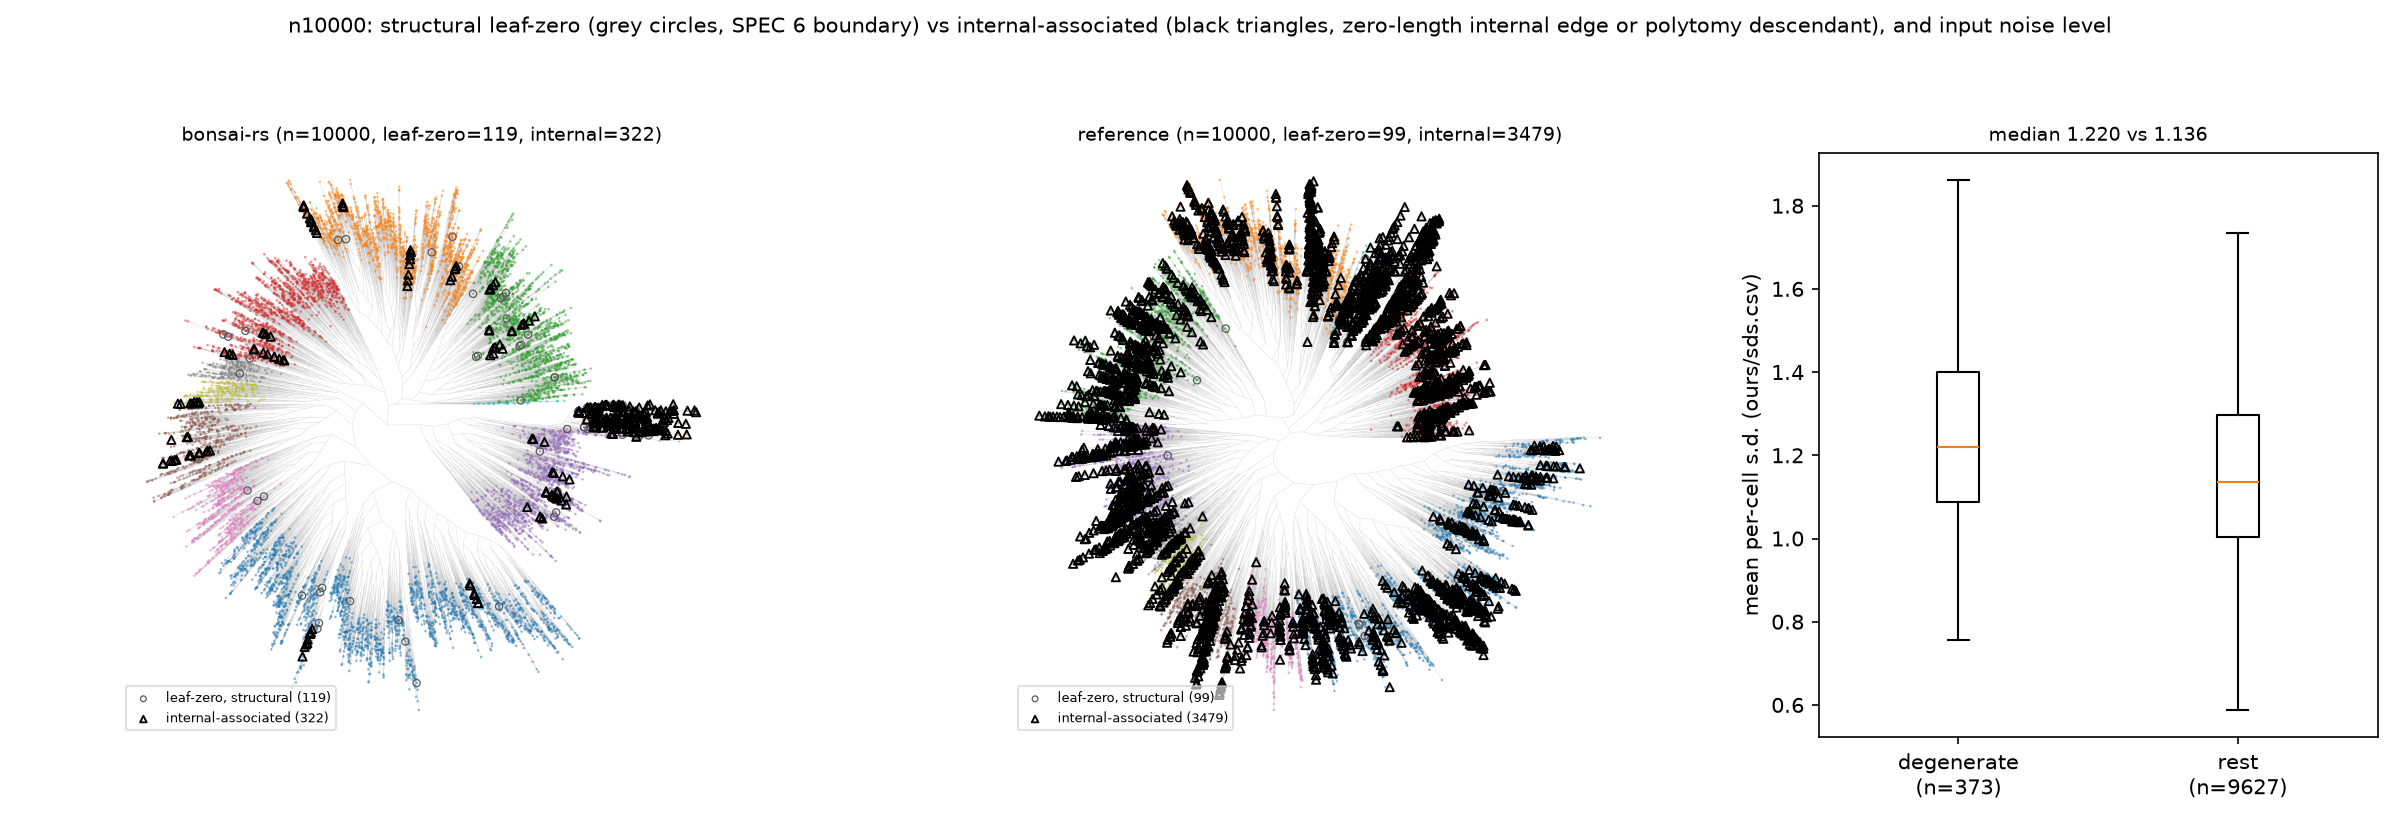
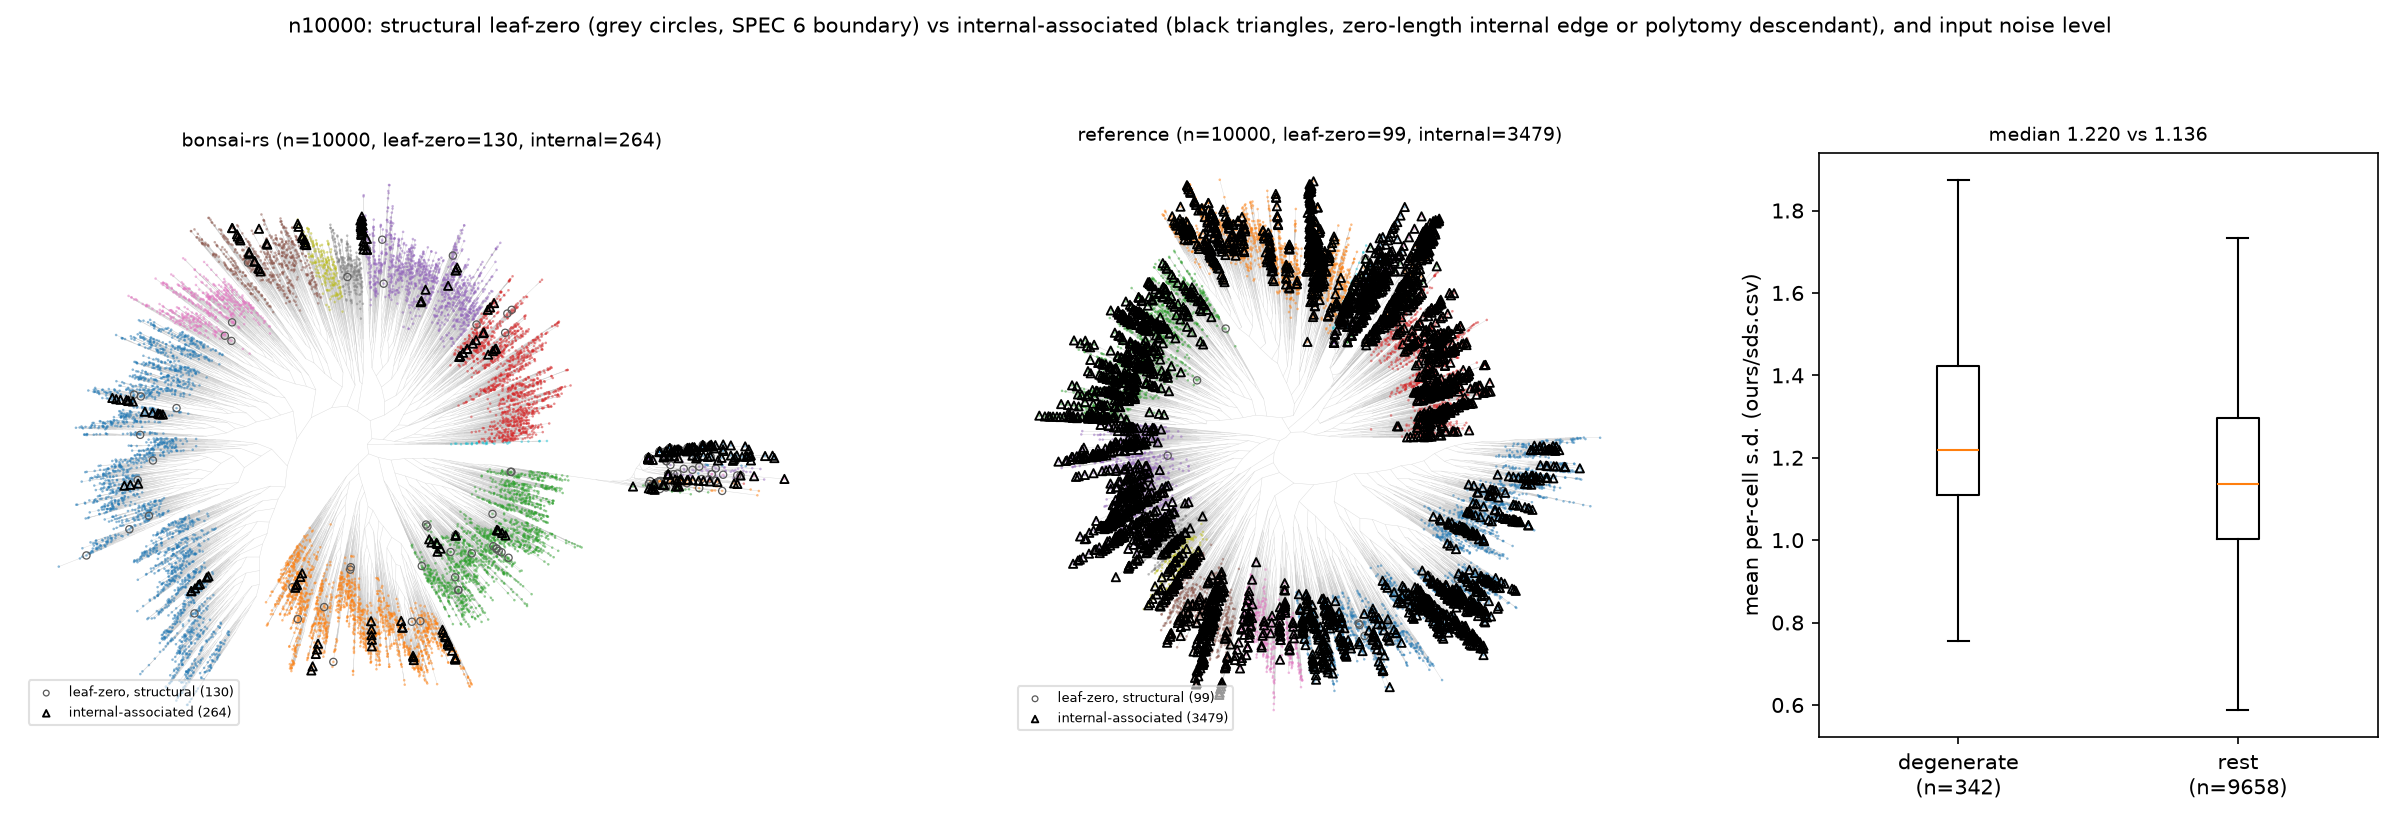
docs: comparison, performance and python guide on 0.3.0 reruns

diff --git a/docs/COMPARISON.md b/docs/COMPARISON.md
@@ -20,24 +20,24 @@ both. `512 s32` is the same 512 cells at another seed with a harder gene panel.
 
 | cells | genes | method | seconds | Robinson-Foulds | distance recovery | loglikelihood, as given | loglikelihood, refit |
 |---|---|---|---|---|---|---|---|
-| 512 | 2,382 | bonsai-rs | 2.9 | 136 | 0.652 | -527,187 | -527,187 |
+| 512 | 2,382 | bonsai-rs | 2.4 | 136 | 0.652 | -527,187 | -527,187 |
 | 512 | 2,382 | published | 386 | 146 | 0.633 | -527,255 | -527,248 |
 | 512 | 2,382 | truth | | 0 | 0.733 | | -528,223 |
-| 512 s32 | 2,302 | bonsai-rs | 3.4 | 222 | 0.319 | -513,568 | -513,568 |
+| 512 s32 | 2,302 | bonsai-rs | 2.8 | 222 | 0.319 | -513,568 | -513,568 |
 | 512 s32 | 2,302 | published | 368 | 240 | 0.303 | -513,553 | -513,536 |
 | 512 s32 | 2,302 | truth | | 0 | 0.500 | | -515,853 |
-| 5,000 | 2,701 | bonsai-rs | 32 | 1,287 | 0.666 | -5,557,911 | -5,557,911 |
+| 5,000 | 2,701 | bonsai-rs | 32 | 1,304 | 0.543 | -5,558,390 | -5,558,390 |
 | 5,000 | 2,701 | published | 4,868 | 1,937 | 0.496 | -5,563,770 | -5,561,535 |
 | 5,000 | 2,701 | published, backbone 2,048 | 2,514 | 1,899 | 0.578 | -5,571,002 | -5,565,342 |
 | 5,000 | 2,701 | published, backbone 1,000 | 1,794 | 1,959 | 0.569 | -5,572,684 | -5,566,018 |
 | 5,000 | 2,701 | truth | | 0 | 0.679 | | -5,571,449 |
-| 10,000 | 2,767 | bonsai-rs | 72 | 2,618 | 0.409 | -11,253,736 | -11,253,736 |
+| 10,000 | 2,767 | bonsai-rs | 83 | 2,575 | 0.539 | -11,253,540 | -11,253,540 |
 | 10,000 | 2,767 | published | 16,062 | 5,149 | 0.281 | -11,280,721 | -11,274,900 |
 | 10,000 | 2,767 | published, backbone 2,048 | 3,529 | 3,946 | 0.368 | -11,280,324 | -11,264,651 |
 | 10,000 | 2,767 | published, backbone 1,000 | 3,594 | 4,191 | 0.347 | -11,284,311 | -11,268,274 |
 | 10,000 | 2,767 | truth | | 0 | 0.461 | | -11,282,910 |
 
-bonsai-rs is `BonsaiParams::default()` in 0.2.0, 2026-09-27, ten threads. Published is
+bonsai-rs is `BonsaiParams::default()` in 0.3.0, 2026-10-13, ten threads. Published is
 its standard run on one core; the published backbone is its backbone-based mode
 with `n_initial_cells` 2,048 or 1,000 and `growth_factor_guide` 10, one
 process. Its default of 10,000 initial cells needs more cells than these sets
@@ -69,25 +69,27 @@ recovery are what it's for.
 - **512 is a tie.** 136 splits against 146, recovery 0.652 against 0.633, 61
   nats ahead after the refit. The replicate flips it: 222 against 240 and 0.319
   against 0.303, but 32 nats behind.
-- **From 5,000 bonsai-rs pulls ahead**, and at 10,000 by a lot: 2,618 against
-  5,149 splits, 21,000 nats after the refit, and 220 times faster.
+- **From 5,000 bonsai-rs pulls ahead**, and at 10,000 by a lot: 2,575 against
+  5,149 splits, 21,000 nats after the refit, and 190 times faster.
 - **The refit matters for the published trees.** It recovers 2,200 nats at 5,000
   and 5,800 at 10,000; 15,700 for the 10,000 backbone. The as-given column
-  overstates bonsai-rs's lead by 62 per cent at 5,000 and 28 at 10,000.
+  overstates bonsai-rs's lead by 71 per cent at 5,000 and 27 at 10,000.
 - **The published backbone pays off in the published implementation**: 2 to 4.5
   times faster than its standard run, and at 10,000 better on splits and on the
-  refit loglikelihood. It is still 50 to 80 times slower than bonsai-rs's
-  standard run at 5,000 and 10,000, and behind it on every column.
-- **The two trees differ from each other** by 26, 110, 1,498 and 4,235 splits.
+  refit loglikelihood. It is still 40 to 80 times slower than bonsai-rs's
+  standard run at 5,000 and 10,000, and behind it on every column but one: at
+  5,000 both backbone runs edge recovery, 0.578 and 0.569 against 0.543. That
+  run of ours sits in the poorer of two basins; see the last bullet.
+- **The two trees differ from each other** by 26, 110, 1,463 and 4,288 splits.
   Equal scores against the truth don't mean the same tree.
 - **The published implementation is deterministic.** A 2026-09-14 rerun gave
   byte-identical Newick at all four sizes. Wall times moved under half a per
   cent where the first run had an idle machine, 30 per cent at 512 and 8 at
   10,000 where it hadn't.
-- **Results differ with SPR's subtree order.** At 10,000 cells recovery lands
-  anywhere from 0.36 to 0.49 across orders
+- **Results differ with SPR's subtree order.** Recovery lands anywhere from
+  0.54 to 0.67 at 5,000 cells and 0.36 to 0.54 at 10,000 across orders
   ([performance](PERFORMANCE.md#how-much-one-real-data-run-says)).
-  Some orders pass the truth's 0.461. That's possible because the truth's branch
+  Some orders pass the truth's 0.461, the default among them. That's possible because the truth's branch
   lengths are expected displacements and ours are fitted to what was realised.
 
 ## Counts to tree
@@ -210,8 +212,8 @@ pairs for every tree.
 
 ## What the trees look like
 
-Measured on the 0.2.0 trees of the [headline table](#speed-and-quality),
-2026-09-29.
+Measured on the 0.3.0 trees of the [headline table](#speed-and-quality),
+2026-10-13.
 
 ![radial layouts at 10,000 cells](figures/n10000_tree_layout.png)
 
@@ -227,11 +229,11 @@ neither Robinson-Foulds nor the loglikelihood does.
 |---|---|---|
 | 512 | 15 | 15 |
 | 512 s32 | **16** | 19 |
-| 5,000 | **21** | 29 |
-| 10,000 | **26** | 40 |
+| 5,000 | **23** | 29 |
+| 10,000 | **22** | 40 |
 
 A tie at 512, then bonsai-rs wins, including on the replicate where it's behind
-on the loglikelihood. The gap grows to fourteen fragments at 10,000.
+on the loglikelihood. The gap grows to eighteen fragments at 10,000.
 
 ![distance recovery at 10,000 cells](figures/n10000_distance_recovery.png)
 
@@ -248,8 +250,8 @@ correlation gap is a wider spread everywhere, not a few stray pairs.
 |---|---|---|---|
 | bonsai-rs 512 | 0 | 0 | 2 |
 | bonsai-rs 512 s32 | 9 | 0 | 3 |
-| bonsai-rs 5,000 | 51 | 0 | 18 |
-| bonsai-rs 10,000 | 119 | 0 | 35 |
+| bonsai-rs 5,000 | 48 | 0 | 18 |
+| bonsai-rs 10,000 | 130 | 0 | 37 |
 | published 512 | 0 | 0 | 3 |
 | published 512 s32 | 5 | 0 | 7 |
 | published 5,000 | 40 | 0 | 107 |
@@ -260,18 +262,17 @@ Two different things; don't conflate them.
 **Zero-length leaf edges** are a SPEC 6 boundary optimum: no evidence separating
 the cell from its parent. Intended, and about input noise, not topology. The
 generating tree has none. These cells are noisier: median of each cell's mean
-SD 1.35 against 1.14 at 10,000, and 31 per cent of them in the noisiest decile.
+SD 1.34 against 1.14 at 10,000, and 31 per cent of them in the noisiest decile.
 
 **Zero-length internal edges and polytomies** come from SPR and NNI splices. At
-10,000 there are 72 internal ones after step 5, 57 after step 6 and 31 after
-step 7. Step 8 collapses them, and collapses once more after its closing branch
-solve, which can land an edge on exactly zero again (it did once here). So none
-survive at any size. Leaf edges step 8 leaves alone by design.
+10,000 there are 66 internal ones after step 5 and 58 after step 6. Step 8
+collapses them, and collapses once more after its closing branch solve, which
+can land an edge on exactly zero again. None survive at any size. Leaf edges step 8 leaves alone by design.
 
 So the difference is in the leaf edges and in how much tree sits under a
 multifurcation: 34.9 per cent degenerate leaves at 10,000 for the published
-tree against 3.7, a largest multifurcation of 513 leaves against 187, and 335
-polytomies against 35.
+tree against 3.4, a largest multifurcation of 513 leaves against 71, and 335
+polytomies against 37.
 
 ## Fans and ladders
 
@@ -283,34 +284,35 @@ The reference draws a **fan**: the whole group as siblings off one node. At
 10,000 cells, 335 multifurcations, the largest 513 leaves.
 
 bonsai-rs draws a **ladder**: an order anyway, each cell on its own small,
-non-zero branch. 35 multifurcations, the largest 187.
+non-zero branch. 37 multifurcations, the largest 71.
 
 In a radial layout, radius is the sum of branch lengths above a leaf. A fan adds
-nothing and lands as a blob. A ladder adds up (28 hops, median radius 0.958
+nothing and lands as a blob. A ladder adds up (37 hops, median radius 1.086
 against the tree's typical 0.627) inside one thin angular slice. Long and thin
 is a spike. The reference's picture is tidier because it flattened those cells,
 not because it placed them better.
 
-**The ladder is more faithful, most of all exactly where a fan looks
-defensible.** Pearson correlation of true squared distance with path distance
+**The ladder is more faithful exactly where a fan looks defensible.** Pearson correlation of true squared distance with path distance
 at 10,000 cells (`faithfulness.py` in the harness). The subset rows use every
 pair; the first samples 200,000, which is why it isn't the headline table's
-0.409.
+0.539.
 
 | pairs drawn from | cells | in bonsai-rs's tree | in the reference's tree |
 |---|---|---|---|
-| all cells | 10,000 | 0.412 | 0.278 |
-| the cells bonsai-rs strings into its longest ladder | 250 | 0.850 | 0.811 |
-| the cells the reference fans into its largest multifurcation | 513 | 0.109 | 0.004 |
+| all cells | 10,000 | 0.540 | 0.278 |
+| the cells bonsai-rs strings into its longest ladder | 250 | 0.359 | 0.359 |
+| the cells the reference fans into its largest multifurcation | 513 | 0.141 | 0.004 |
 
 - **A multifurcation isn't declining to answer.** It claims every member is
   equidistant from every other, and carries no distance information: 0.004 is
-  zero. The ladder still gets 0.109 on the same cells.
-- **The ladder's order isn't noise.** 0.850 on the spike's 250 cells, above its
-  own whole-tree 0.412 and the reference's 0.811 there. An arbitrary order would
-  score near zero, like the fan.
-- **So the spike is a feature** for anyone reading distances off the picture.
-  Flattening it would force a fan where the branch solve found positive optima.
+  zero. The ladder still gets 0.141 on the same cells.
+- **The spike itself is no better than the reference.** 0.359 on its 250 cells
+  in both trees, well below bonsai-rs's whole-tree 0.540. On the 0.2.0 tree it
+  was 0.850 against 0.811: that spike was one true clade drawn long, this one
+  mixes clades ([the arm](#the-arm)). Read it as cells the search couldn't
+  place, not as structure.
+- **Flattening it still wouldn't help.** It would force a fan where the branch
+  solve found positive optima, and a fan scores zero.
 
 Limits: path distance saturates at large true distances in both trees, and at
 10,000 cells the generating tree only scores 0.461, so there's little global
@@ -319,20 +321,22 @@ headroom either way.
 ## The arm
 
 The spike, taken as the 2.5 per cent of cells furthest from the root: 250 at
-10,000, 125 at 5,000. Median 28 hops against 17 at 10,000 and 28 against 15 at
-5,000; radius 0.958 against 0.627 and 1.045 against 0.609.
+10,000, 125 at 5,000. Median 37 hops against 17 at 10,000 and 22 against 15 at
+5,000; radius 1.086 against 0.627 and 0.797 against 0.604.
 
-- **At 10,000 it's mostly one true clade**: 231 of its 250 cells sit in one of
-  the generating tree's ten top-level clades. At 5,000 it isn't: it spans all
-  ten, none holding more than 34 of 125. So at 5,000 the spike groups cells the
-  truth doesn't; at 10,000 it's one clade drawn long.
-- **The reference half agrees.** 128 of the 250 sit in one reference clade of
-  393 leaves at 10,000; 77 of 125 in one of 114 at 5,000.
-- **Zero-length leaf edges** gather in it at 5,000 (35 of 51) but not at 10,000
-  (1 of 119). 82 cells have a zero-length leaf edge in both trees at 10,000.
-- **Not the noisiest cells.** Median of each cell's mean SD 1.12 against 1.14 at
-  10,000 and 1.15 against 1.12 at 5,000; 12.8 and 12.0 per cent in the noisiest
-  decile against 9.9.
+- **It isn't one true clade at either size.** Of the generating tree's ten
+  top-level clades it spans seven at 10,000, the largest holding 117 of 250, and
+  nine at 5,000, the largest 44 of 125. So the spike groups cells the truth
+  doesn't. The 0.2.0 tree's spike at 10,000 was different: 231 of 250 in one
+  clade.
+- **The reference half agrees at 10,000.** 139 of the 250 sit in one reference
+  subtree of 212 leaves. At 5,000 it doesn't: the smallest reference subtree
+  holding half the arm has 1,937 leaves.
+- **Zero-length leaf edges** gather in it at 10,000 (45 of 130) but not at 5,000
+  (0 of 48). 82 cells have a zero-length leaf edge in both trees at 10,000.
+- **A little noisier than the rest.** Median of each cell's mean SD 1.19 against
+  1.14 at 10,000 and 1.15 against 1.12 at 5,000; 11.2 and 15.2 per cent in the
+  noisiest decile against 10.0 and 9.9.
 
 ## Honest rendering
 
@@ -344,7 +348,7 @@ glitch, and seven times as many of the published tree's leaves are affected.
 The same goes the other way for the spike. It's ugly and someone will ask to
 collapse it. That would replace measured positive branch lengths with a
 multifurcation, which carries no distance information. Tidying the picture would
-delete the part that's true.
+swap measured branch lengths for a structure that scores zero.
 
 ## Reproducing
 

diff --git a/docs/PERFORMANCE.md b/docs/PERFORMANCE.md
@@ -6,33 +6,33 @@ this file started 2026-09-12, so rows dated then were measured on or before it.
 
 ## Now
 
-`BonsaiParams::default()` in 0.2.0 on Sanity-preprocessed Baron, 2026-09-27:
+`BonsaiParams::default()` in 0.3.0 on Sanity-preprocessed Baron, 2026-10-13:
 
 | step | 512 | 5,000 | 10,000 | 25,000 | share at 25,000 |
 |---|---|---|---|---|---|
-| 1-2 linkage | 0.06 s | 1.6 s | 5.9 s | 26.1 s | 13% |
-| 3 polytomy | 0.01 s | 0.05 s | 0.1 s | 0.3 s | 0% |
-| 4 branch | 0.3 s | 2.9 s | 7.3 s | 15.7 s | 8% |
-| 5 SPR | 1.9 s | 20.0 s | 45.8 s | 125.0 s | 60% |
-| 6 NNI | 0.2 s | 2.2 s | 4.7 s | 19.3 s | 9% |
-| 7 branch | 0.3 s | 3.3 s | 5.9 s | 9.6 s | 5% |
-| 8 collapse | 0.02 s | 1.7 s | 2.7 s | 12.2 s | 6% |
-| total | 2.9 s | 31.7 s | 72.4 s | 208.3 s | |
+| 1-2 linkage | 0.03 s | 0.9 s | 3.1 s | 12.0 s | 7% |
+| 3 polytomy | 0.01 s | 0.06 s | 0.1 s | 0.2 s | 0% |
+| 4 branch | 0.3 s | 3.8 s | 9.7 s | 12.9 s | 7% |
+| 5 SPR | 1.6 s | 20.5 s | 54.1 s | 124.7 s | 69% |
+| 6 NNI | 0.2 s | 2.2 s | 4.9 s | 14.2 s | 8% |
+| 7 branch | 0.3 s | 2.7 s | 7.6 s | 9.7 s | 5% |
+| 8 collapse | 0.02 s | 1.7 s | 3.8 s | 8.0 s | 4% |
+| total | 2.4 s | 31.8 s | 83.2 s | 181.8 s | |
 
 0.1.1 took 203 s at 10,000 and 1,029 s at 25,000 on the same data and the same
-day. From 10,000 to 25,000 cells: total `n^1.15`, SPR `n^1.10`, NNI `n^1.54`,
-linkage `n^1.63`, step 8 `n^1.64`. Two points over two gene panels, so a slope,
-not a law. On the synthetic 65,536 by 1,000 set the full search takes 226 s,
-SPR 148 s of it.
+day as 0.2.0. 0.2.0 took 72.4 s and 208.3 s, 2026-09-27; its linkage took 5.9 s
+and 26.1 s, half that now, with the neighbour graph from `ann-search-rs` 0.11. From 10,000 to 25,000 cells: total `n^0.85`, SPR
+`n^0.91`, NNI `n^1.15`, linkage `n^1.49`, step 8 `n^0.83`. Two points over two gene panels, so a slope,
+not a law. On the synthetic 65,536 by 1,000 set the full search takes 215 s,
+SPR 148 s of it (226 s on 0.2.0).
 
-- SPR is still three fifths of the run, but close to linear: it runs on a live
+- SPR is over two thirds of the run at 25,000, but close to linear: it runs on a live
   tree with stable ids and builds nothing to score a move
   ([design](DESIGN.md#search-topology)).
-- The steepest steps are now the linkage, NNI and step 8. NNI's per-move
-  bookkeeping is gone and its full edge scans are the untimed suspect; step 8's
-  polytomy loop still rebuilds the arena per resolution.
-- The branch solves (4, 7 and 8) are under a fifth of the run since the
-  prune and up sweep went level-parallel.
+- The steepest steps are now the linkage and NNI. NNI's per-move bookkeeping is
+  gone and its full edge scans are the untimed suspect.
+- The branch solves (4, 7 and 8) are a sixth of the run at 25,000 and a quarter
+  at 10,000 since the prune and up sweep went level-parallel.
 - SPR's thread utilisation has not been re-measured since the live tree; before
   it, a sampled profile at 25,000 showed about half the thread time idle at the
   chunk barrier.
@@ -71,8 +71,8 @@ Counts to tree end to end is in [comparison](COMPARISON.md).
 12. **Time on an idle machine, alternating against a kept baseline.** On
     2026-09-24 load wandered 2 to 27 and the same step 6 measured 98 s and
     156 s. Quality survives load; timings don't.
-13. **One real-data run is one draw.** Equally valid searches spread 460 nats at
-    5,000 and 1,700 at 10,000; see
+13. **One real-data run is one draw.** Equally valid searches spread about
+    1,000 nats at both 5,000 and 10,000; see
     [How much one real-data run says](#how-much-one-real-data-run-says). Trust an
     approximation that reproduces the exact tree; treat a few hundred nats as
     noise unless it repeats across sizes.
@@ -198,27 +198,28 @@ took step 6 from 69 s to 41 s at 131,072 cells.
 ### How much one real-data run says
 
 Not much. Runs differing only in SPR's subtree order are equally valid and
-spread widely. 0.2.0 defaults, 2026-09-27:
+spread widely. 0.3.0 defaults, 2026-10-13:
 
 | cells | SPR order | loglikelihood | Robinson-Foulds | recovery |
 |---|---|---|---|---|
-| 5,000 | longest branch, the default | -5,557,911 | 1,287 | 0.666 |
-| 5,000 | random, seed 1 | -5,558,197 | 1,267 | 0.582 |
-| 5,000 | random, seed 2 | -5,558,859 | 1,249 | 0.551 |
-| 5,000 | random, seed 3 | -5,558,174 | 1,266 | 0.624 |
-| 10,000 | longest branch, the default | -11,253,736 | 2,618 | 0.409 |
-| 10,000 | random, seed 1 | -11,255,000 | 2,699 | 0.361 |
-| 10,000 | random, seed 2 | -11,254,555 | 2,559 | 0.488 |
-| 10,000 | random, seed 3 | -11,254,226 | 2,622 | 0.385 |
-| 10,000 | random, seed 4 | -11,253,220 | 2,613 | 0.469 |
-| 10,000 | random, seed 5 | -11,253,079 | 2,660 | 0.391 |
-| 10,000 | random, seed 6 | -11,254,244 | 2,623 | 0.376 |
-| 10,000 | random, seed 7 | -11,253,997 | 2,621 | 0.386 |
-| 10,000 | random, seed 8 | -11,253,669 | 2,636 | 0.472 |
+| 5,000 | longest branch, the default | -5,558,390 | 1,304 | 0.543 |
+| 5,000 | random, seed 1 | -5,558,876 | 1,262 | 0.551 |
+| 5,000 | random, seed 2 | -5,558,237 | 1,306 | 0.668 |
+| 5,000 | random, seed 3 | -5,557,890 | 1,313 | 0.670 |
+| 10,000 | longest branch, the default | -11,253,540 | 2,575 | 0.539 |
+| 10,000 | random, seed 1 | -11,253,899 | 2,672 | 0.364 |
+| 10,000 | random, seed 2 | -11,253,881 | 2,626 | 0.386 |
+| 10,000 | random, seed 3 | -11,253,919 | 2,635 | 0.396 |
+| 10,000 | random, seed 4 | -11,254,484 | 2,545 | 0.465 |
+| 10,000 | random, seed 5 | -11,253,978 | 2,687 | 0.380 |
+| 10,000 | random, seed 6 | -11,253,441 | 2,667 | 0.362 |
+| 10,000 | random, seed 7 | -11,254,170 | 2,635 | 0.374 |
+| 10,000 | random, seed 8 | -11,254,096 | 2,621 | 0.381 |
 
-About 950 nats and recovery 0.55 to 0.67 at 5,000; 1,900 nats and 0.36 to 0.49
-at 10,000. The same seeds with `SprApprox::recheck` off stay inside that: 940
-nats and 0.57 to 0.67 at 5,000, 1,700 nats and 0.37 to 0.49 at 10,000. A few
+About 990 nats and recovery 0.54 to 0.67 at 5,000; 1,040 nats and 0.36 to 0.54
+at 10,000. On 0.2.0 the same seeds spread 950 nats and 0.55 to 0.67, and 1,900
+nats and 0.36 to 0.49; with `SprApprox::recheck` off they stayed inside that,
+940 nats and 0.57 to 0.67, 1,700 nats and 0.37 to 0.49. A few
 hundred nats on one run is noise. An approximation is only proven harmless when
 it reproduces the exact result outright, as lazy NNI does. The revisit radius
 does on the 512-cell and low-noise sets; at 5,000 and 10,000 it lands 3 nats
@@ -227,11 +228,12 @@ other way: the loose branch tolerance's 1,281-nat, 0.38-recovery loss at 10,000
 looks like a bad basin, not a measured cost.
 
 **The loglikelihood doesn't pick the better tree.** At 5,000 it roughly does:
-the best loglikelihood has the best recovery, the worst the worst. At 10,000 it
-doesn't: seed 5 has the best loglikelihood and recovery 0.391, seed 2 the
-second worst and 0.488. Best-of-several by loglikelihood is cheap but buys
-likelihood, not recovery. The specified longest-branch order isn't dominated:
-best loglikelihood of the four at 5,000, fourth of nine at 10,000.
+the best loglikelihood has the best recovery, the worst nearly the worst. At
+10,000 it doesn't: seed 6 has the best loglikelihood and the worst recovery,
+0.362; seed 4 the worst loglikelihood and the second best, 0.465. Best-of-several
+by loglikelihood is cheap but buys likelihood, not recovery. The specified
+longest-branch order isn't dominated: third loglikelihood of the four at 5,000,
+second of nine at 10,000.
 
 ### Splice pairs through the regrafted subtree
 

diff --git a/python/docs/guide.md b/python/docs/guide.md
@@ -58,9 +58,9 @@ first call to cap it; after that it's fixed.
 
 ## Large datasets
 
-On a ten-core laptop the search takes 72 seconds on 10,000 cells by 2,767 genes
-of Sanity-preprocessed Baron pancreas and 208 seconds on 25,000 by 2,846; a
-synthetic 65,536 cells by 1,000 features takes 226 seconds. See the
+On a ten-core laptop the search takes 83 seconds on 10,000 cells by 2,767 genes
+of Sanity-preprocessed Baron pancreas and 182 seconds on 25,000 by 2,846; a
+synthetic 65,536 cells by 1,000 features takes 215 seconds. See the
 [comparison](https://github.com/GregorLueg/bonsai-rs/blob/main/docs/COMPARISON.md).
 
 
